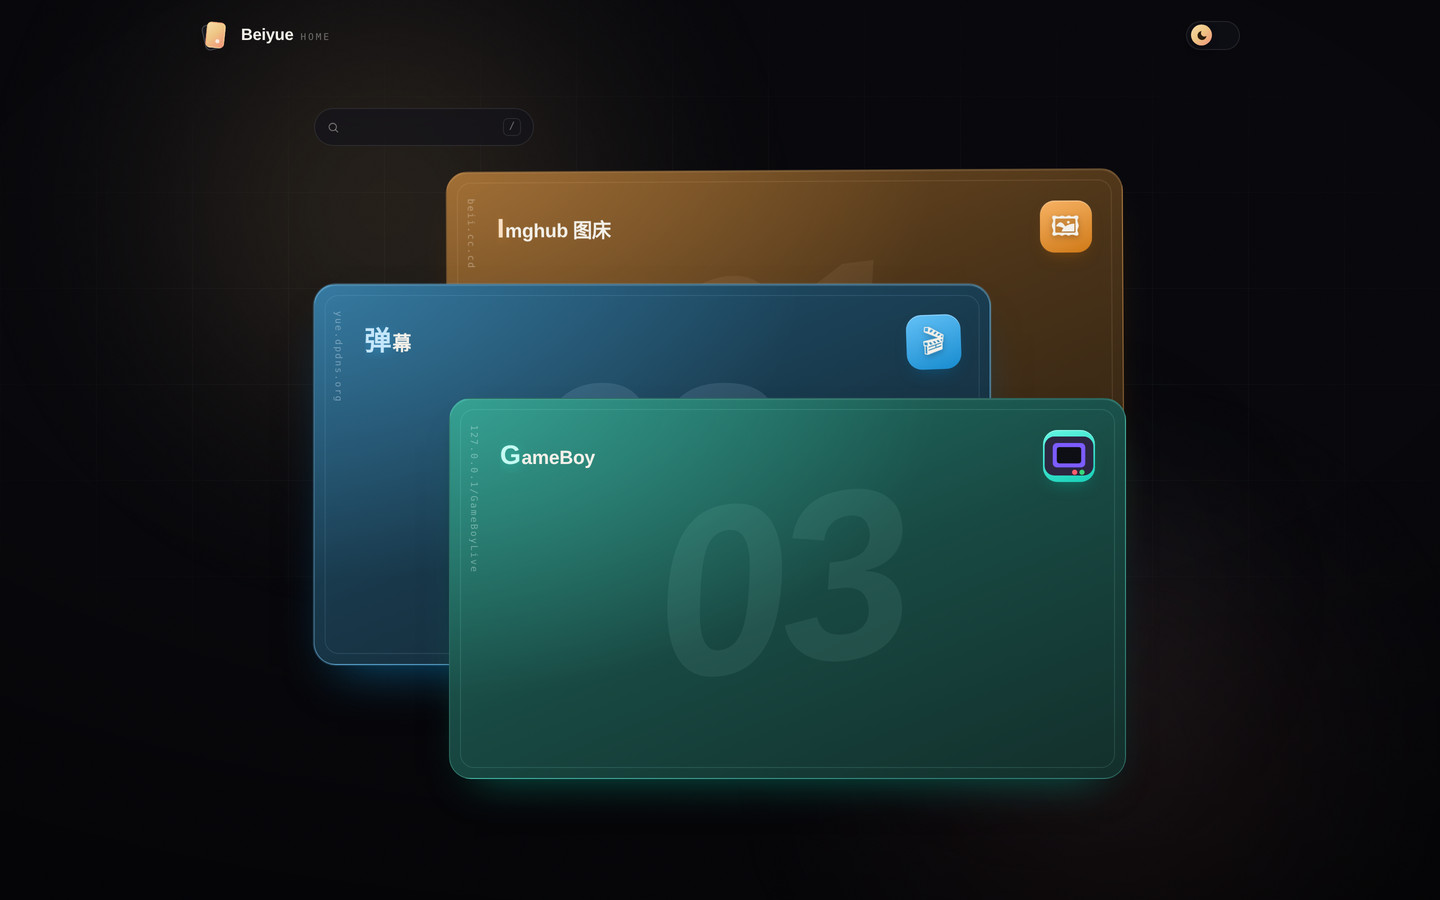
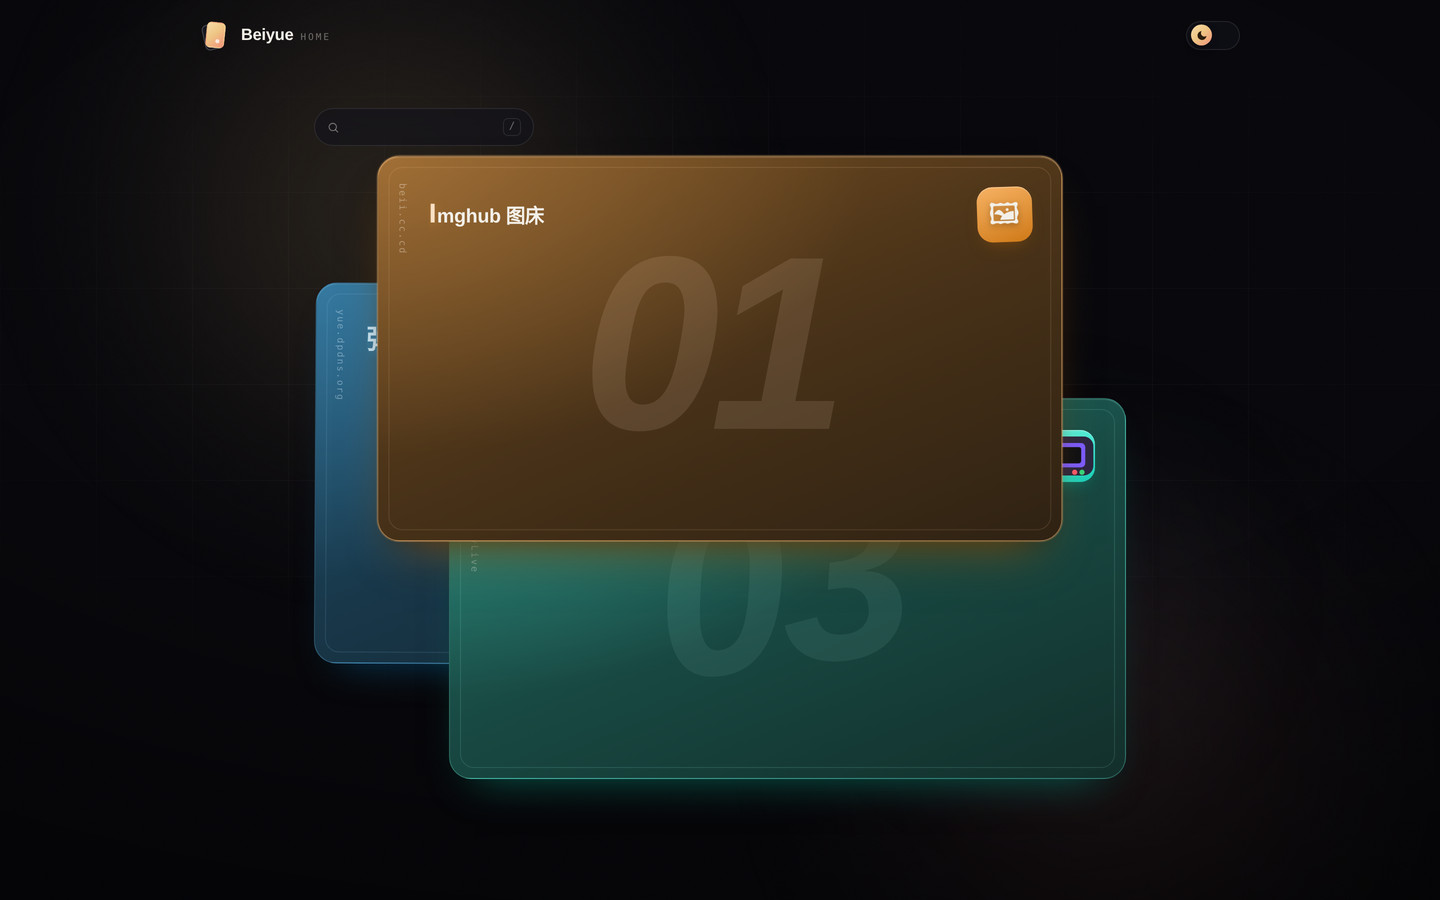
feat: zigzag stacked deck with center pull

Changed region(s): [[0.2188, 0.1556, 0.7812, 0.6222], [0.2188, 0.7156, 0.3125, 0.7467]]

diff --git a/src/styles/card.css b/src/styles/card.css
@@ -9,9 +9,8 @@
   --ratio-h: var(--card-ratio-h, 16);
   /* 露出比例：只露角落那一条 */
   --band: 0.19;
-  /* 抽出量：相对牌面自身宽度，横向抽出 20% 卡宽，
-     正好填满牌堆左侧预留的那条空档 */
-  --lift: -20%;
+  /* 悬停时滑向正中的位移量：容器两侧各留 1/12，正好是卡宽的 10% */
+  --fan-hover: 10%;
 
   position: relative;
   display: block;
@@ -53,7 +52,7 @@
     );
   box-shadow: 0 22px 40px -26px hsl(var(--hue) 85% 25% / 0.9),
     0 10px 20px -12px rgba(0, 0, 0, 0.45), inset 0 1px 0 hsl(var(--hue) 90% 85% / 0.14);
-  transform: translate3d(var(--fan, 0px), 0, 0) rotate(var(--tilt, 0deg));
+  transform: rotate(var(--tilt, 0deg));
   transform-origin: 50% 92%;
   transition: transform 480ms var(--ease-spring), box-shadow 380ms var(--ease-out),
     border-color 380ms var(--ease-out);
@@ -227,6 +226,11 @@
     --band: 0.3;
   }
 
+  /* 靠右的那些牌，悬停时往左滑到正中 */
+  .deck__item--right .card {
+    --fan-hover: -10%;
+  }
+
   .card__corner {
     height: 30%;
     gap: 16px;
@@ -269,7 +273,8 @@
 @media (hover: hover) and (min-width: 720px) {
   .card:hover .card__face,
   .card:focus-visible .card__face {
-    transform: translate3d(var(--lift), 0, 0) rotate(0deg);
+    /* 滑到正中并轻轻抬起，像从一叠牌里被抽出来看清楚 */
+    transform: translate3d(var(--fan-hover), -10px, 0) rotate(0deg) scale(1.012);
     border-color: hsl(var(--hue) 85% 72% / 0.5);
     box-shadow: 0 26px 46px -24px hsl(var(--hue) 85% 28% / 0.95),
       0 12px 22px -14px rgba(0, 0, 0, 0.5), 0 0 0 1px hsl(var(--hue) 85% 72% / 0.2),
@@ -300,7 +305,7 @@
   }
 
   .card:active .card__face {
-    transform: translate3d(calc(var(--lift) * 0.55), 0, 0) rotate(0deg);
+    transform: translate3d(var(--fan-hover), -4px, 0) rotate(0deg) scale(1.004);
   }
 
   .card:focus-visible .card__face {

diff --git a/src/components/Deck.vue b/src/components/Deck.vue
@@ -14,6 +14,7 @@ const emit = defineEmits(['clear'])
         v-for="(app, i) in apps"
         :key="app.id"
         class="deck__item"
+        :class="{ 'deck__item--right': i % 2 === 0 }"
         :style="{ '--i': i }"
       >
         <DeckCard :app="app" :index="i" :is-last="i === apps.length - 1" />
@@ -101,9 +102,26 @@ const emit = defineEmits(['clear'])
     --card-ratio-h: 9;
   }
 
+  /* 卡宽占容器的 5/6，剩下 1/6 就是左右错位的余量：
+     偶数张靠右、奇数张贴左，形成之字形叠放 */
   .deck {
-    /* 左 1/6 空档，右 5/6 卡宽（百分比 padding 按包含块宽度解析） */
-    padding-left: 16.6667%;
+    padding-inline: 0;
+  }
+
+  .deck__item {
+    width: 83.3333%;
+  }
+
+  /* margin-left:auto 把偶数张推到最右，奇数张留在最左 */
+  .deck__item--right {
+    margin-left: auto;
+  }
+
+  /* 鼠标停在某张牌上时，把它提到最上层：滑到正中 + 完整露出，
+     这才像从一叠牌里抽出来看 */
+  .deck__item:hover,
+  .deck__item:focus-within {
+    z-index: 9;
   }
 }
 </style>

diff --git a/src/components/DeckCard.vue b/src/components/DeckCard.vue
@@ -34,8 +34,7 @@ const style = computed(() => {
   return {
     '--hue': props.app.hue,
     '--i': props.index,
-    '--tilt': `${(stagger * 0.3).toFixed(2)}deg`,
-    '--fan': `${(stagger * 1.5).toFixed(2)}px`
+    '--tilt': `${(stagger * 0.3).toFixed(2)}deg`
   }
 })
 </script>

diff --git a/README.md b/README.md
@@ -6,8 +6,8 @@ Vue 3 + Vite，无 UI 框架，样式手写。
 
 ## 特点
 
-- **牌堆**：纵向叠放，后一张压住前一张的下沿，每张只露名称与图标那一行；最后一张整张露出，牌心是淡编号
-- **抽出**：悬停或键盘聚焦时，整张牌左移 20% 卡宽，正好填满牌堆左侧预留的车道；纵向位置不动，不会遮住上下邻居
+- **之字形牌堆**：卡片只占容器 5/6 宽，偶数张靠右、奇数张贴左，纵向逐张下移；每张露出 L 形的一块，最后一张整张露出，牌心是淡编号
+- **抽出**：悬停或键盘聚焦时，这张牌滑到正中、浮到最上层并轻轻抬起，像从一叠牌里抽出来看清楚
 - **搜索**：`/` 聚焦、`Esc` 清空，按名称、英文名、分类、简介过滤
 - **响应式**：≥720px 是 16:9 横卡 + 左侧车道；窄屏是 9:16 竖卡，悬停改为轻抬
 - **主题**：深色 / 浅色，跟随系统，手动切换后记忆
